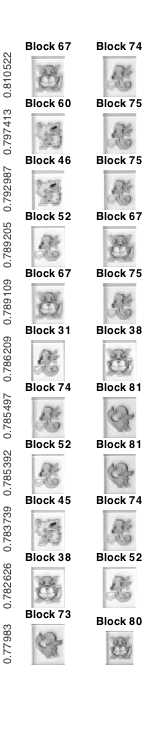
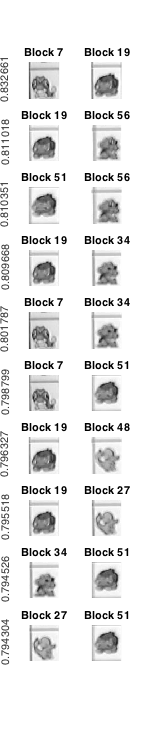
Sync codes in report.md

diff --git a/src/map_game.m b/src/map_game.m
@@ -1,6 +1,5 @@
 %% map_game: Map imgs into a game ground.
-function [ground, legends] = map_game(imgs, matches, values, ...
-                                      accept_threshold, combine_threshold)
+function [ground, legends] = map_game(imgs, matches, values, accept_threshold)
     ground = zeros(size(imgs));
 
     kind_num = 1;

diff --git a/report/report.md b/report/report.md
@@ -71,10 +71,12 @@ function high_freq_img = highpass_img(img, order)
 
 ```matlab
 %% match_imgs: Match images
-function similarity = match_imgs(imgs, order)
+function similarity = match_imgs(imgs, order, margin_ratio)
     img_num = numel(imgs);
     high_imgs = cell(img_num, 1);
     similarity = eye(img_num);
+
+    margin = round(margin_ratio * size(imgs{1}));
 
     for k = 1:img_num
         high_imgs{k} = highpass_img(imgs{k}, order);
@@ -82,7 +84,17 @@ function similarity = match_imgs(imgs, order)
 
     for k1 = 1:img_num-1
         for k2 = k1+1:img_num
-            corr = max(max(normxcorr2(high_imgs{k1}, high_imgs{k2})));
+            img1 = high_imgs{k1};
+            img2 = high_imgs{k2};
+
+            corr1 = max(max(normxcorr2(img1(1+margin(1):end-margin(1), ...
+                                            1+margin(2):end-margin(2)), ...
+                                       img2)));
+            corr2 = max(max(normxcorr2(img2(1+margin(1):end-margin(1), ...
+                                            1+margin(2):end-margin(2)), ...
+                                       img1)));
+            corr = max([corr1 corr2]);
+
             similarity(k1, k2) = corr;
             similarity(k2, k1) = corr;
         end
@@ -109,7 +121,7 @@ function [matches, values] = sort_match(similarity)
 我们先将匹配结果存至变量中：
 
 ```matlab
-sim = match_imgs(imgs, 20);
+sim = match_imgs(imgs, 20, 0.2);
 [matches, values] = sort_match(sim);
 ```
 
@@ -150,7 +162,7 @@ show_matches(imgs, matches(match_range, :), values(match_range));
 通过人工查找，将相似度最大的前十误匹配显示出来：
 
 ```matlab
-match_range = [40; 44; 46; 48; 49; 50; 52; 53; 55; 57; 60];
+match_range = [181 183:191];
 show_matches(imgs, matches(match_range, :), values(match_range));
 ```
 
